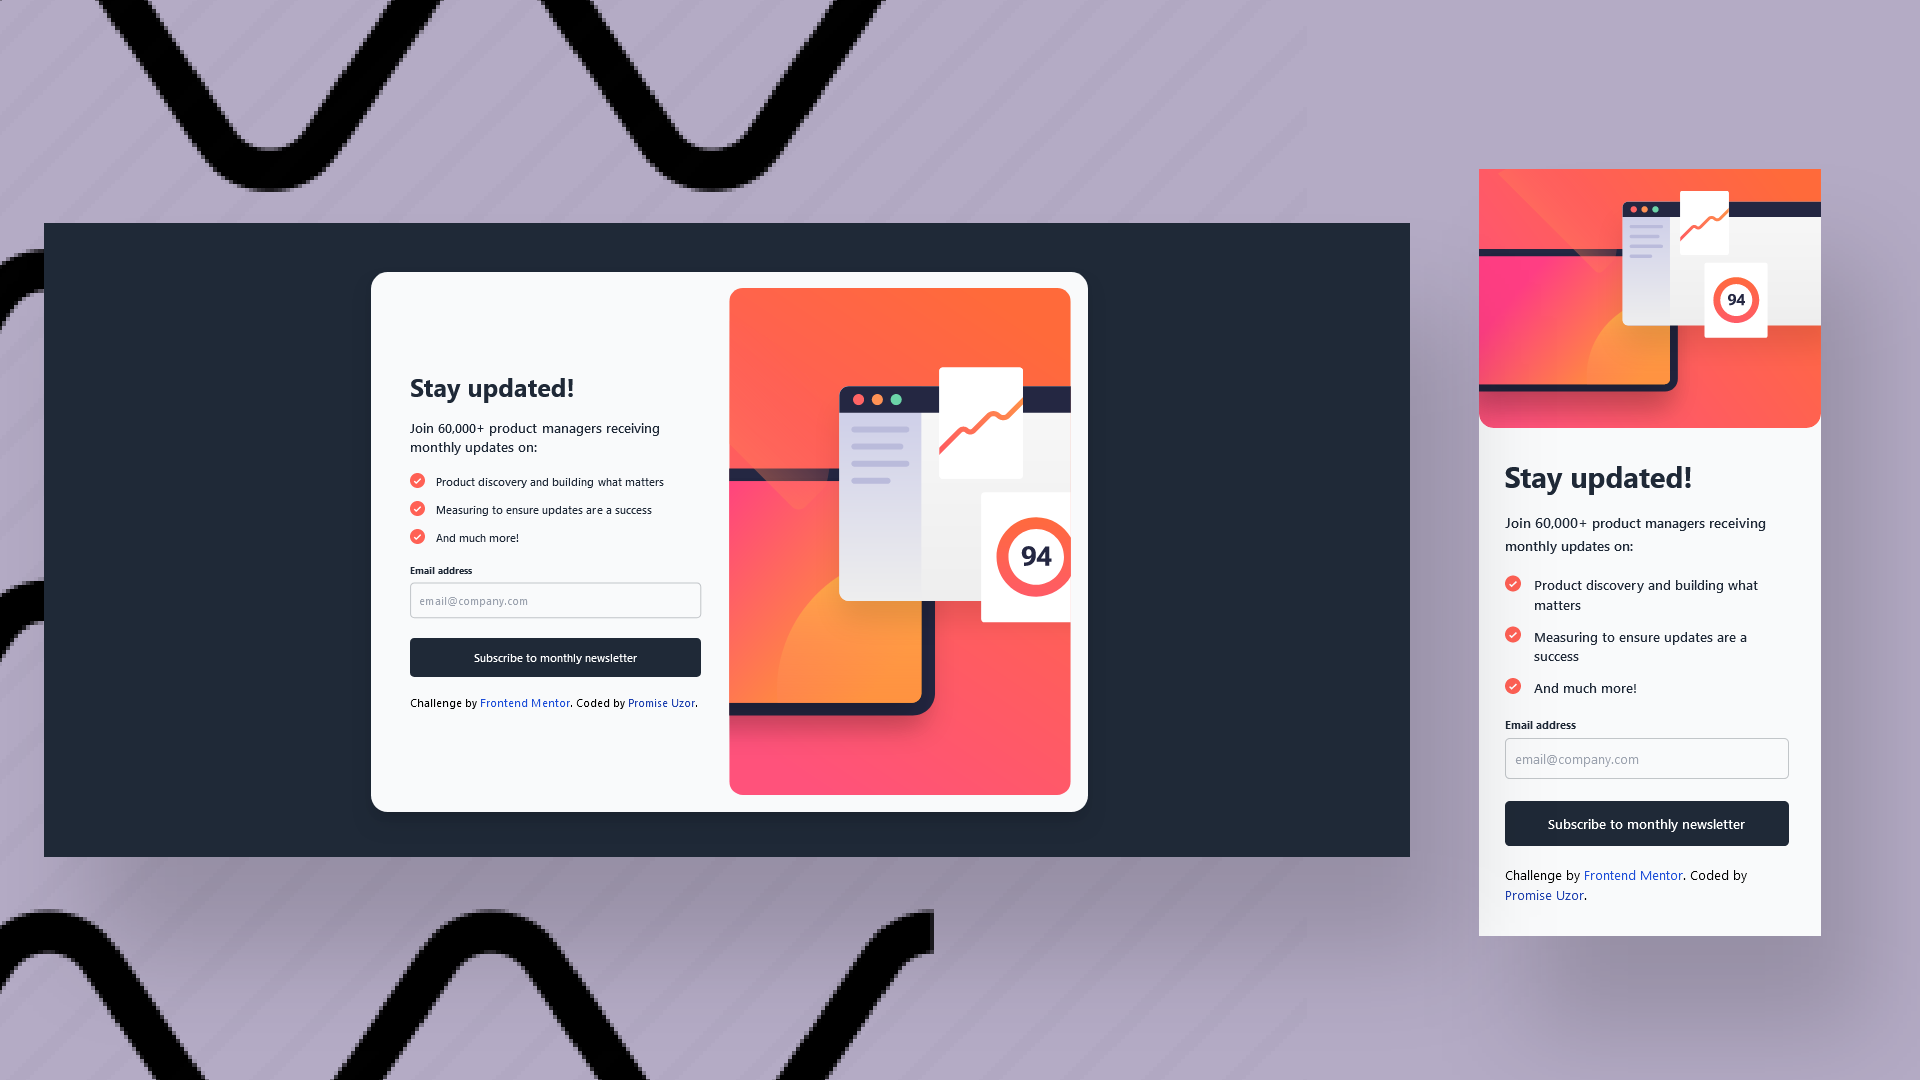
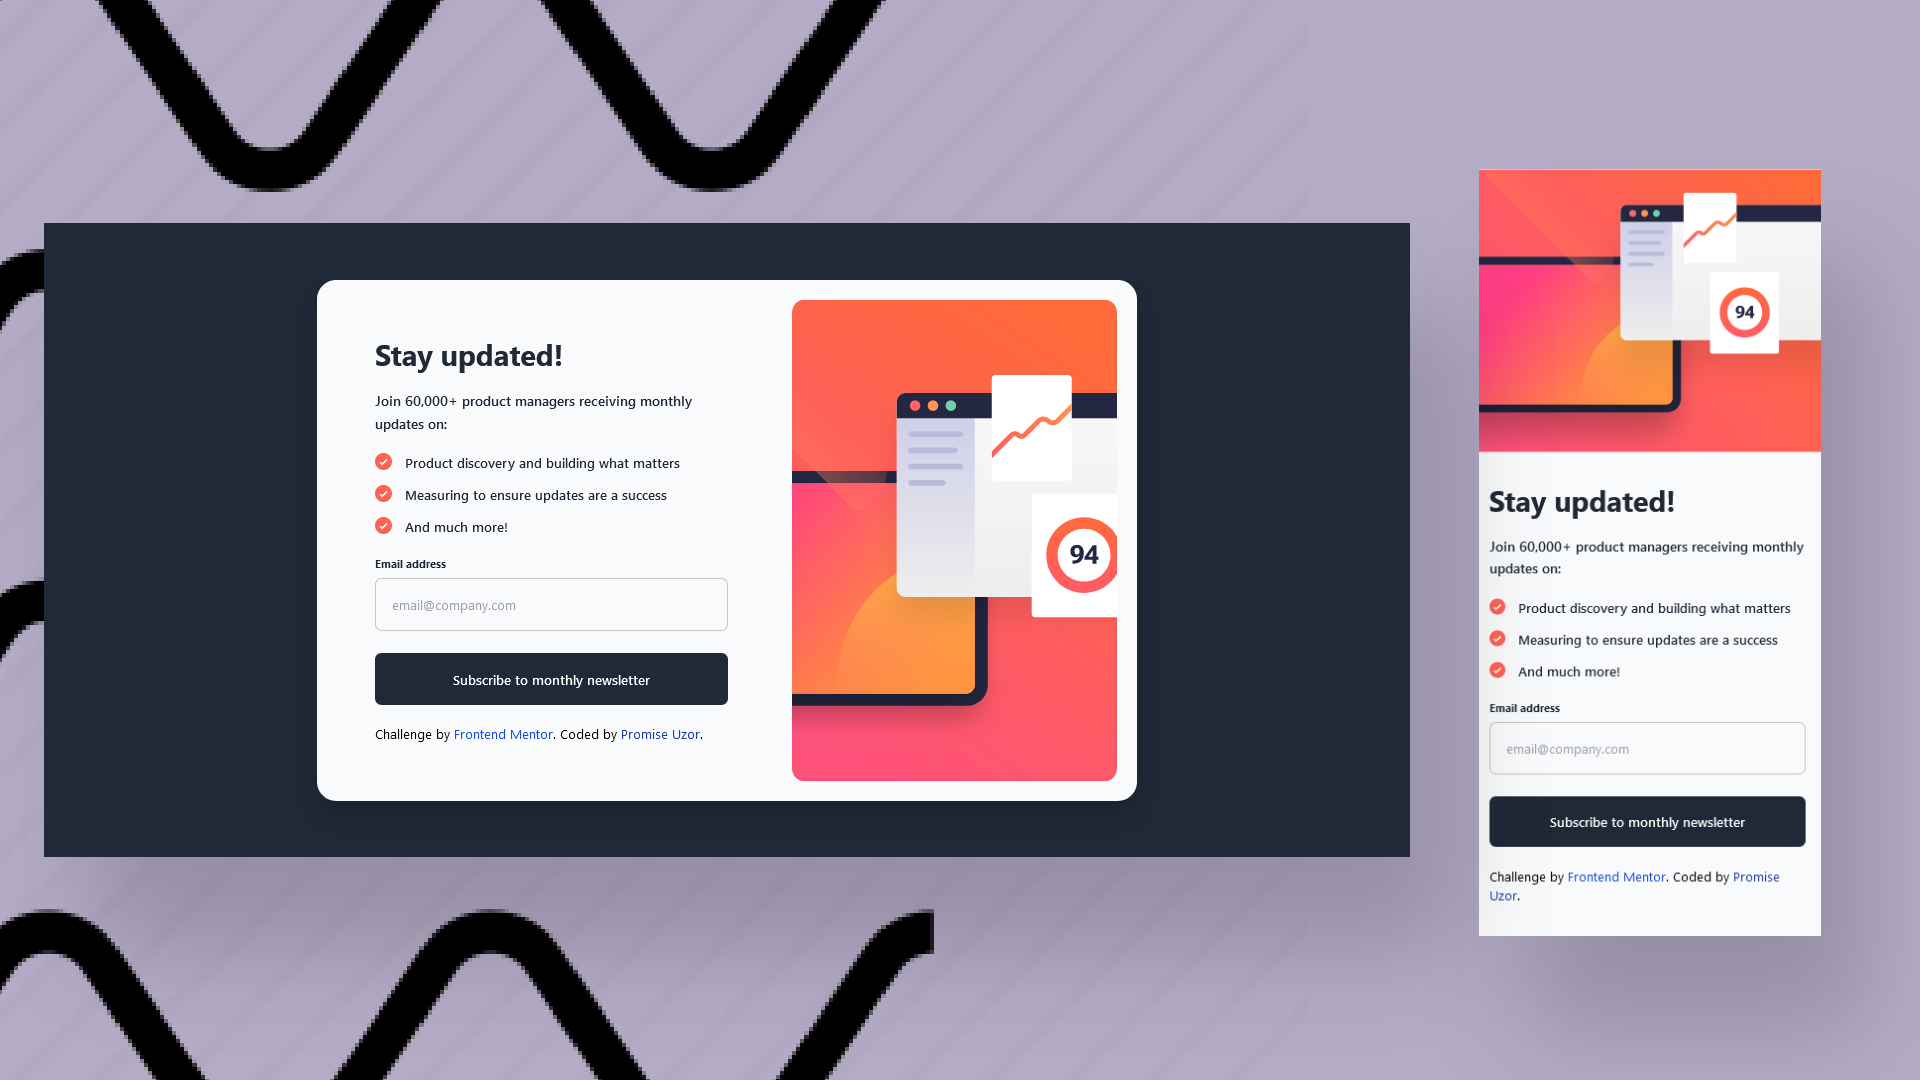
update

Changed region(s): [[0.1562, 0.2444, 0.5938, 0.7639], [0.75, 0.2444, 0.9688, 0.8556], [0.75, 0.1528, 0.9688, 0.2444]]

diff --git a/index.html b/index.html
@@ -11,12 +11,12 @@
     </head>     
     <body class="font-sans">
         <div class="relative lg:bg-gray-800 lg:flex lg:h-screen lg:items-center lg:justify-center lg:justify-items-center lg:w-screen">
-            <div class="absolute bg-gray-50 flex flex-col h-auto justify-between w-full lg:bg-gray-50 lg:flex-row-reverse lg:max-w-4xl lg:p-6 lg:rounded-3xl lg:shadow-xl">
-                <div class="w-full lg:w-6/12">
+            <div class="absolute bg-gray-50 flex flex-col h-auto justify-between w-full lg:bg-gray-50 lg:flex-row-reverse lg:max-w-5xl lg:p-6 lg:rounded-3xl lg:shadow-xl">
+                <div class="w-full lg:w-5/12">
                     <img src="img/illustration-sign-up-mobile.svg" alt="signup-image" class="w-full lg:hidden">
-                    <img src="img/illustration-sign-up-desktop.svg" alt="signup-image" class="hidden w-full lg:block">
+                    <img src="img/illustration-sign-up-desktop.svg" alt="signup-image" class="hidden lg:block w-full">
                 </div>
-                <div class="flex flex-col gap-6 items-stretch justify-center justify-items-center justify-self-center pl-8 place-content-center place-items-center pr-10 py-10 lg:bg-gray-50 lg:mr-3 lg:w-6/12">
+                <div class="flex flex-col gap-6 items-stretch justify-center justify-items-center justify-self-center pl-8 place-content-center place-items-center pr-10 py-10 lg:bg-gray-50 lg:pl-12 lg:pr-20 lg:w-7/12">
                     <h1 class="font-bold text-4xl text-gray-800">Stay updated!</h1>
                     <p class="font-semibold leading-7 text-gray-800 text-lg">Join 60,000+ product managers receiving monthly updates on:</p>
                     <div class="flex flex-col gap-4">
@@ -41,8 +41,8 @@
                             <label class="font-bold text-gray-800 text-sm">Email address</label>
                             <label class="font-bold hidden text-sm text-yellow-600">Valid email required</label>
                         </div>
-                        <input type="email" name="email" placeholder="email@company.com" required="true" class="bg-transparent border border-gray-800 border-opacity-25 border-solid cursor-pointer duration-300 ease-in-out focus:border-gray-800 focus:rounded-lg mb-5 outline-none p-3 rounded-md transition-all">
-                        <button class="bg-gray-800 duration-300 ease-in-out font-semibold hover:bg-yellow-700 p-4 rounded-md text-white transition-all">Subscribe to monthly newsletter</button>
+                        <input type="email" name="email" placeholder="email@company.com" required="true" class="bg-transparent border border-gray-800 border-opacity-25 border-solid cursor-pointer duration-300 ease-in-out focus:border-gray-800 focus:rounded-lg mb-5 outline-none p-5 rounded-lg transition-all">
+                        <button class="bg-gray-800 duration-300 ease-in-out font-semibold hover:bg-yellow-700 p-5 rounded-lg text-white transition-all">Subscribe to monthly newsletter</button>
                     </form>
                     <div class="attribution"> 
                         Challenge by <a href="https://www.frontendmentor.io?ref=challenge" target="_blank" class="text-blue-700">Frontend Mentor</a>. 
@@ -51,7 +51,7 @@
                 </div>
             </div>
             <div class="absolute bg-white flex-col h-screen hidden justify-between p-8 w-screen lg:gap-8 lg:h-auto lg:justify-start lg:max-w-lg lg:p-16 lg:rounded-3xl lg:shadow-2xl">
-                <div class="flex flex-col gap-8 items-start justify-center justify-items-center justify-self-center mt-28 lg:mt-0">
+                <div data-empty-placeholder class="flex flex-col gap-8 items-start justify-center justify-items-center justify-self-center mt-28 lg:mt-0">
                     <img src="img/icon-success.svg">
                     <h1 class="font-bold text-5xl text-gray-800">Thanks for subscribing!</h1>
                     <p class="font-medium text-gray-800 text-lg">A confirmation email has been sent to <b>ash@loremcompany.com</b>. Please open it and click the button inside to confirm your subscription.</p>
